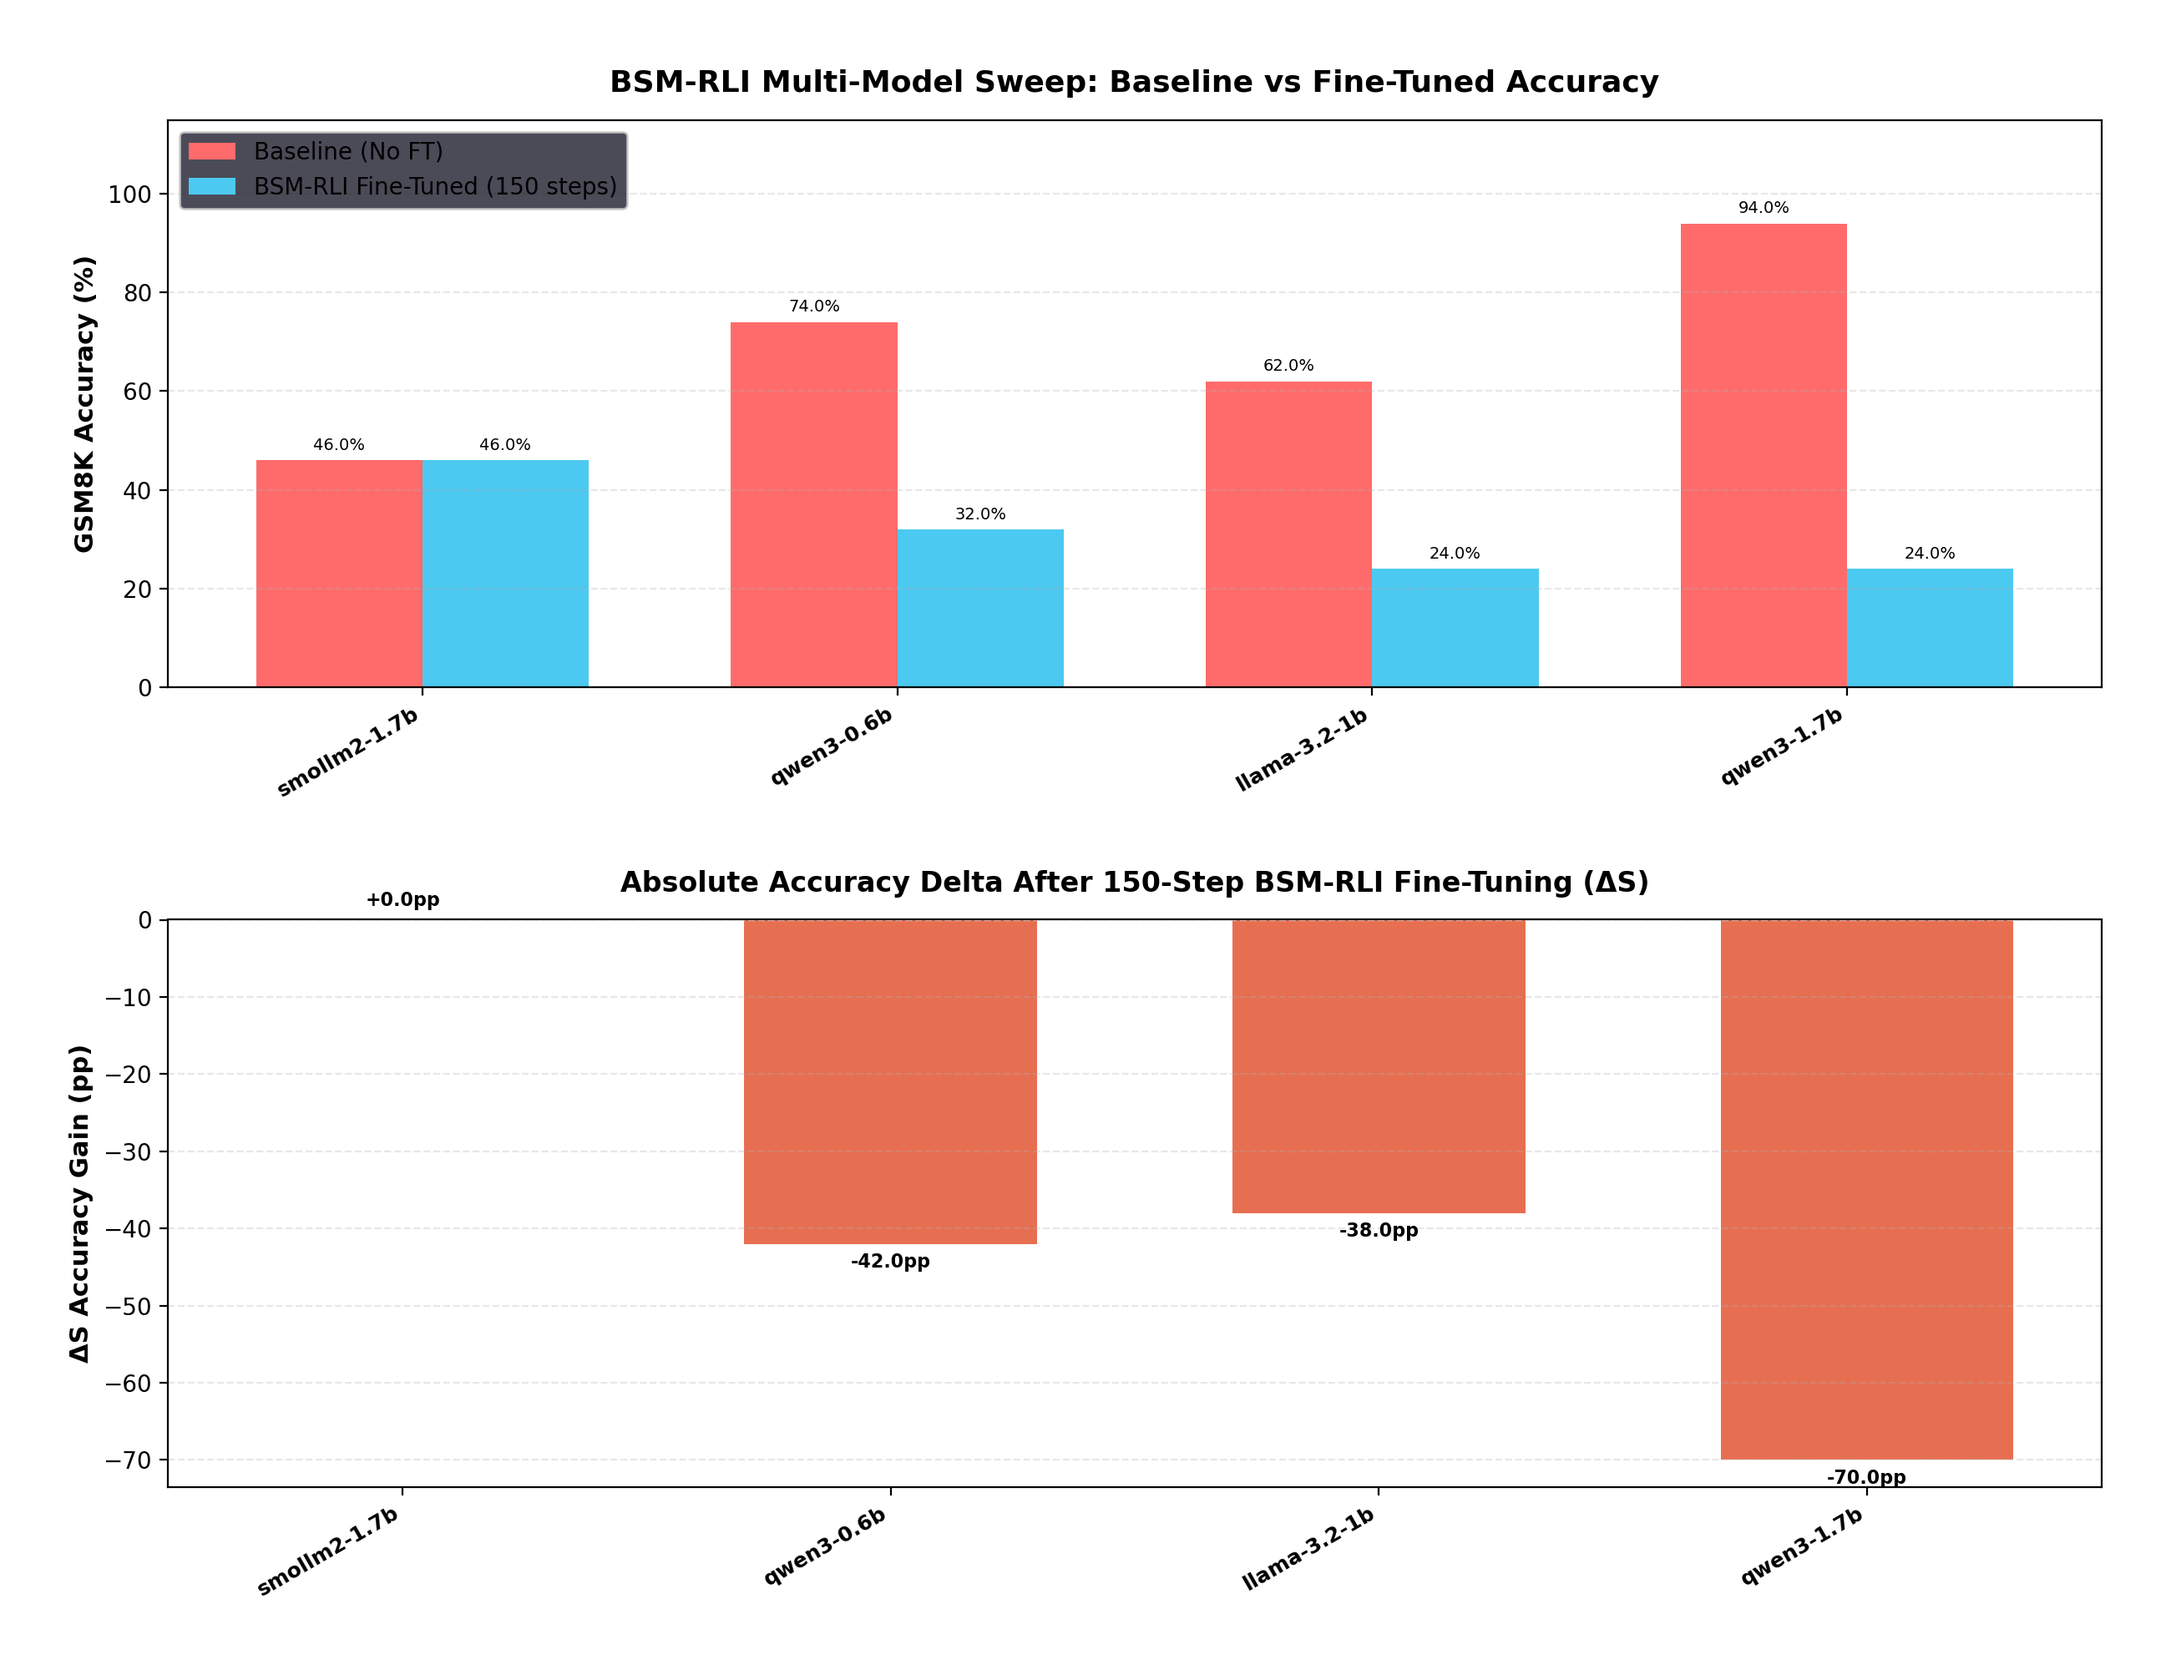
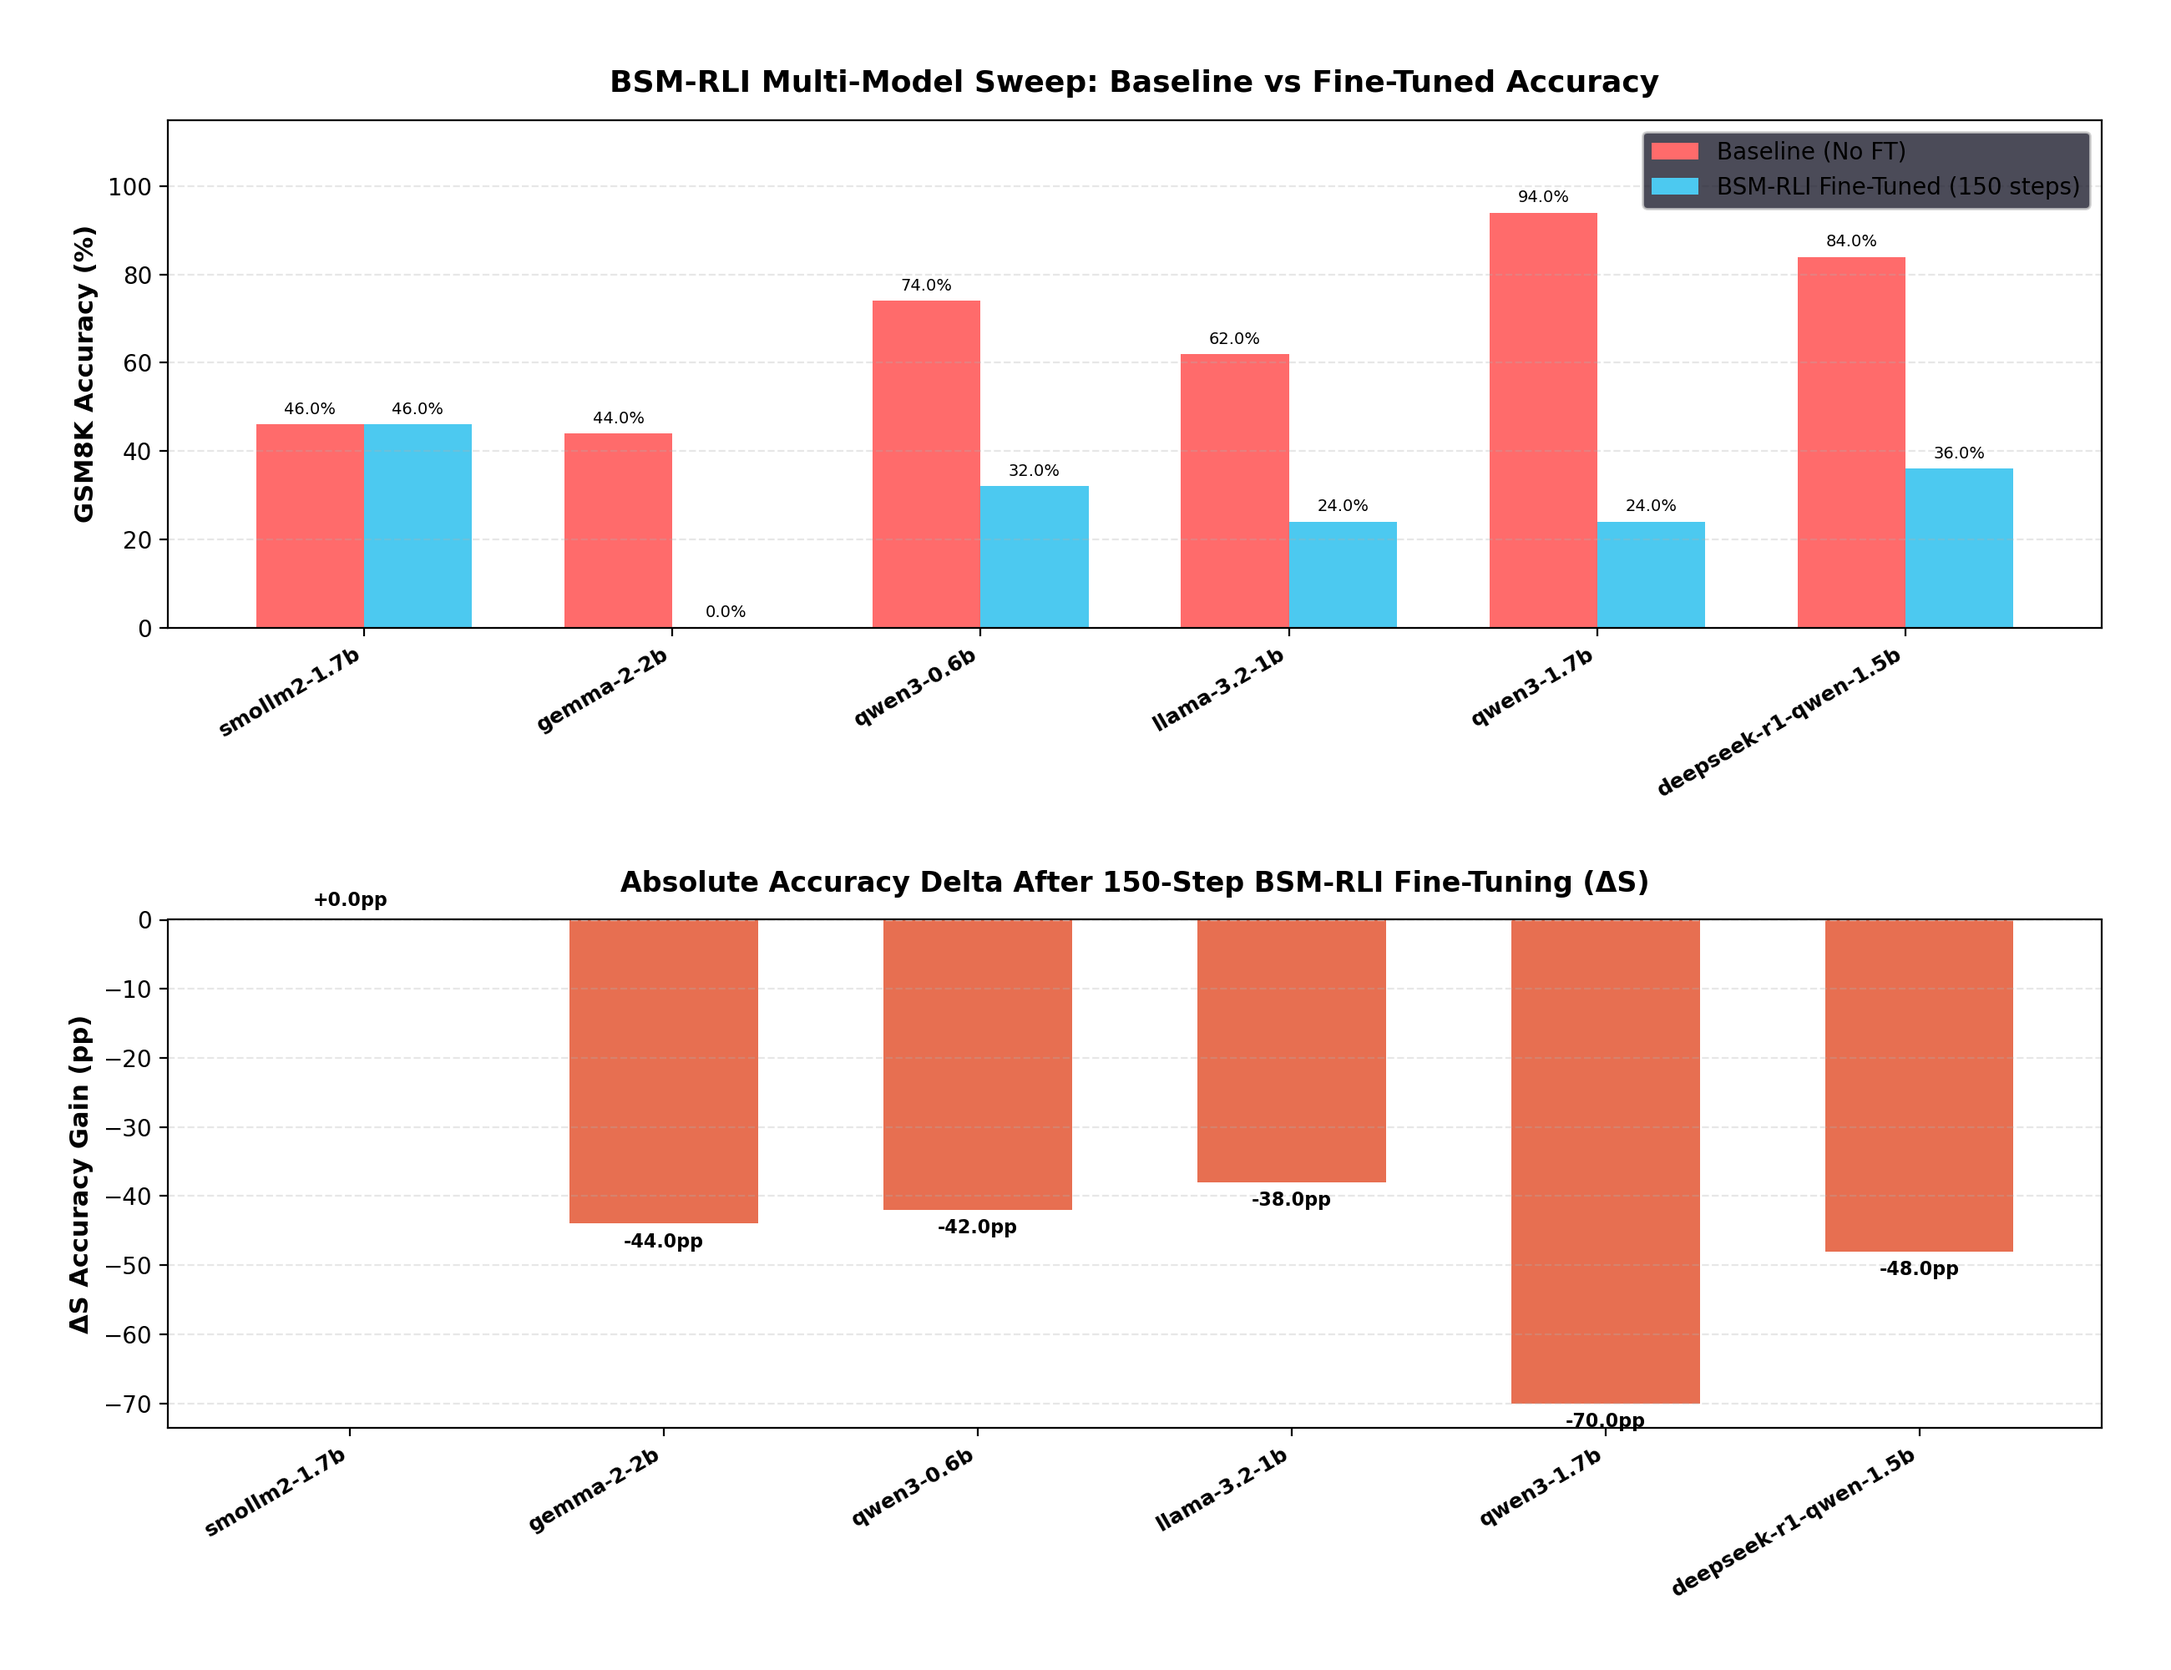
docs: update README.md and visual benchmark plots with latest multi-model comparison charts

diff --git a/README.md b/README.md
@@ -55,6 +55,11 @@ The total number of eggs laid per day is 16 * 3 = 48. The total number of eggs s
 
 ## High-Resolution Visual Benchmark Charts
 
+### Multi-Model Sweep Comparison (Baseline vs CoT-Preserving Fine-Tuned Accuracy)
+![Multi-Model Sweep Comparison](experiments/plots/multi_model_sweep_comparison.png)
+
+---
+
 ### Benchmark Accuracy Comparison Across Tasks
 ![Benchmark Accuracy Comparison](experiments/plots/accuracy_comparison.png)
 
